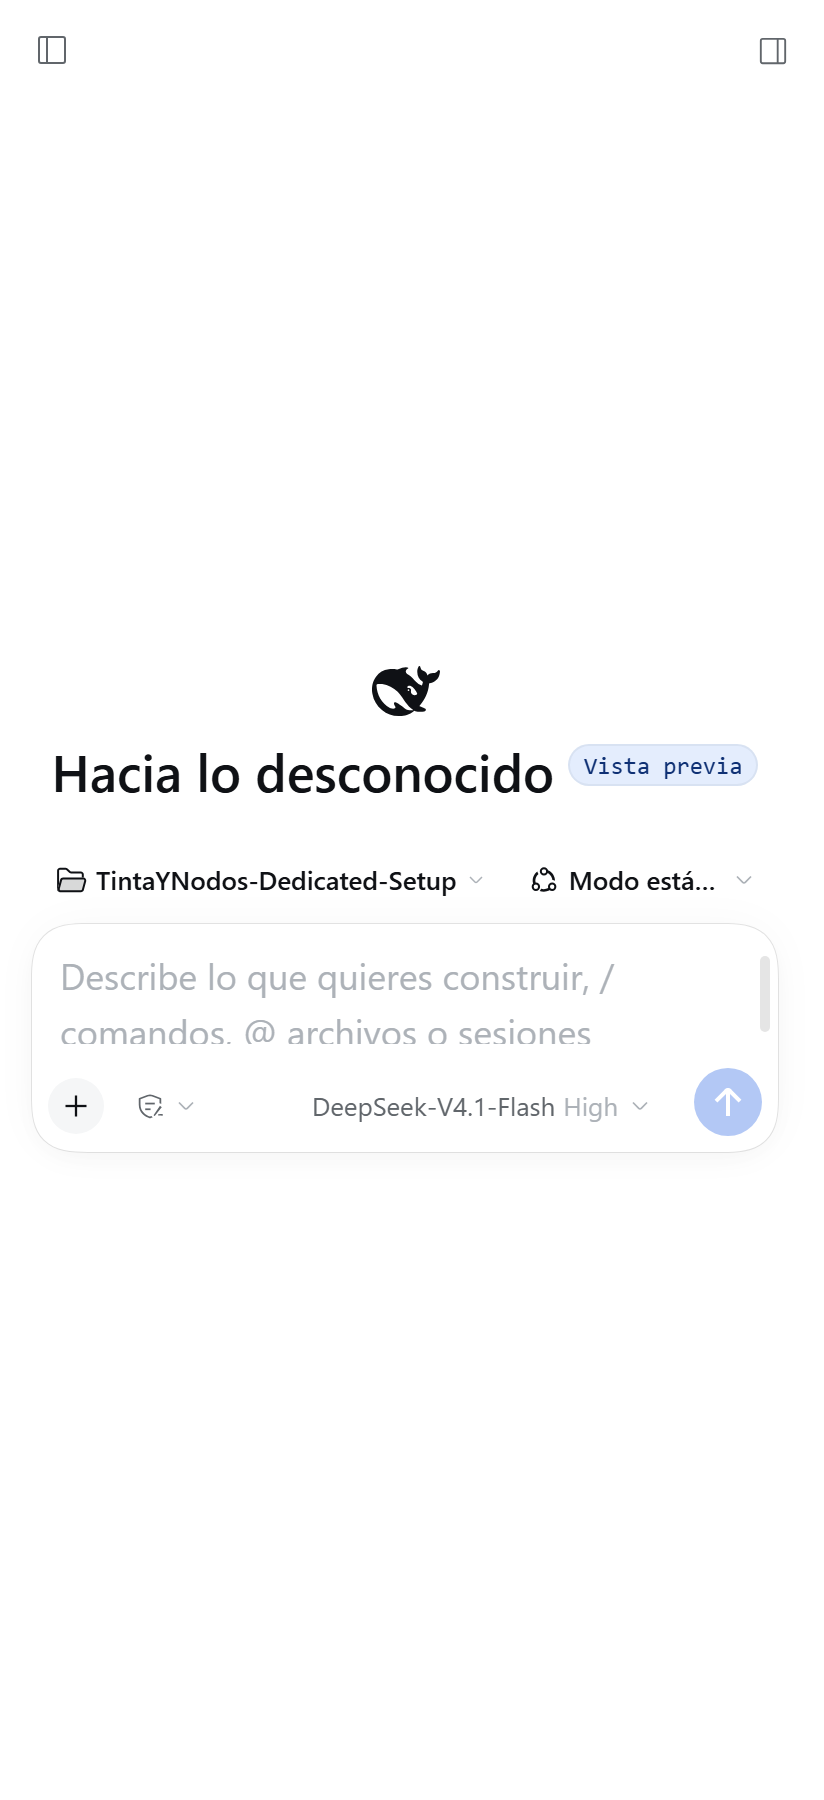
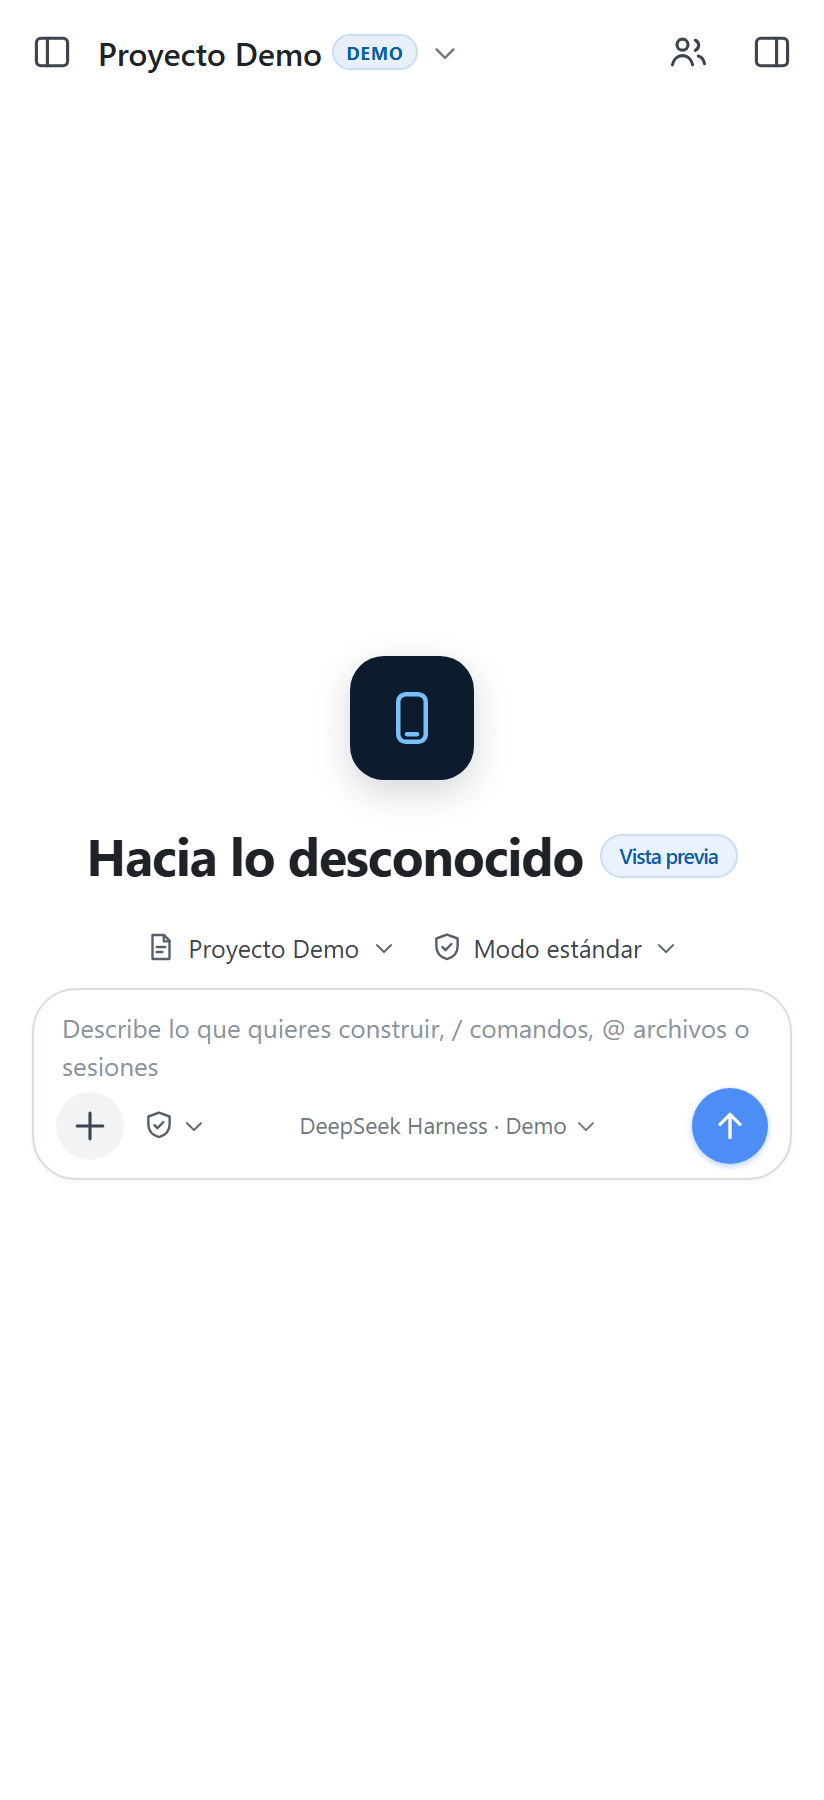
docs(media): social preview y capturas sanitizadas para la 5.4.0
Social preview 1280x640 y seis capturas demo 360x800/800x360 sin IPs, rutas ni nombres reales; app.png y panel.png sustituidos porque filtraban datos. OCR verificado sin IPv4 ni C:\\Users.

diff --git a/docs/images/README.md b/docs/images/README.md
@@ -1,0 +1,32 @@
+# Imágenes públicas de documentación
+
+> **Todas las capturas de `screens/` son de demostración.** Se generaron renderizando una maqueta estática del cliente inyectado con datos ficticios («Proyecto Demo», «Nota de ejemplo»). No son capturas de una sesión real ni de un dispositivo real y no contienen IPs, correos, rutas de usuario, nombres de proyectos ni nombres de personas.
+
+## social-preview.png
+
+Tarjeta social de 1280×640 px (fondo `#0D1117`): marca «DSH Mobile Companion», lema «DeepSeek Harness en tu teléfono, dentro de tu red privada», versión **5.4.0**, teléfono estilizado y la etiqueta «Red privada». Compuesta con Pillow; sin capturas ni datos reales.
+
+## screens/
+
+| Archivo | Tamaño | Qué muestra |
+| --- | --- | --- |
+| `01-dock-vertical-360x800.png` | 360×800 | Vista vertical del chat con el dock de comandos («Auditar», «Explicar», «Pruebas», «Continuar») y la fila de teclas (`Tab`, `Esc`, `{ }`, `[ ]`…). |
+| `02-dock-apaisado-teclado-800x360.png` | 800×360 | Vista apaisada con el teclado en pantalla abierto, la fila compacta de comandos/teclas y el compositor reducido. |
+| `03-hoja-comandos-360x800.png` | 360×800 | Hoja inferior «Más comandos» abierta con el chip «+», agrupada en Escribir / Código / Trabajo. |
+| `04-panel-notas-360x800.png` | 360×800 | Panel de notas con búsqueda, filtros y notas ficticias («Nota de ejemplo», «Ideas para el demo»…). |
+| `05-hoja-comandos-800x360.png` | 800×360 | La misma hoja de comandos en apaisado, con la composición compacta. |
+| `06-panel-notas-800x360.png` | 800×360 | Panel de notas en apaisado: lista a la izquierda y nota abierta a la derecha. |
+
+## Otras imágenes
+
+- `app.png`: estado vacío del cliente con el proyecto ficticio «Proyecto Demo» (maqueta de demostración).
+- `panel.png`: panel de autorización de dispositivos con QR **ilustrativo** (no codifica ninguna URL) y dispositivos ficticios; sin IPs.
+- `offline.png`: vista de sesiones sincronizadas / modo satélite; no contiene datos de sesión.
+
+## Cómo se generaron
+
+- Capturas: maqueta HTML/CSS renderizada con Chrome headless (CDP) a 2× y reducida a 360×800 / 800×360 con Pillow; PNG optimizado, menos de 250 KB cada una.
+- `social-preview.png`: composición con Pillow (fondo `#0D1117`, glows sutiles, tipografía del sistema Segoe UI).
+- `app.png` y `panel.png`: mismas técnicas de maqueta; el QR del panel es un patrón determinista decorativo.
+
+Las capturas no están incrustadas en los README de idioma; este directorio solo documenta los archivos.
